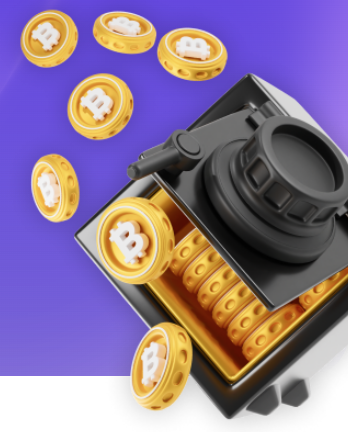
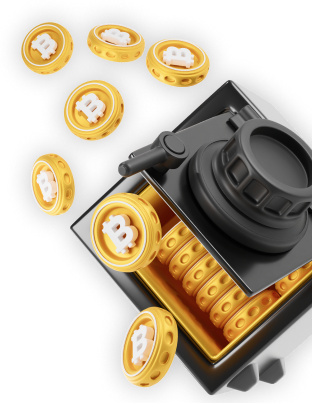
edit first page

diff --git a/front/src/page/welcome/index.css b/front/src/page/welcome/index.css
@@ -9,19 +9,15 @@
   width: 100%;
   height: 70%;
   text-align: center;
-  display: flex;
-  flex-direction: column;
-  align-items: center;
   border-radius: 24px;
   background: url("./background.svg") no-repeat;
+  position: relative;
 }
 
 .money__img {
   position: absolute;
-  top: 322px;
-  right: 1127px;
-  width: 300px;
-  height: 300px;
+  top: 232px;
+  left: 80px;
 }
 
 .welcome__title {
@@ -42,9 +38,9 @@
 }
 
 .buttons {
-  display: grid;
-  gap: 12px;
-  padding-bottom: 20px;
-  width: 100%;
+  display: flex;
+  flex-direction: column;
   justify-content: center;
+  align-items: center;
+  gap: 12px;
 }

diff --git a/front/src/page/welcome/index.tsx b/front/src/page/welcome/index.tsx
@@ -9,9 +9,9 @@ export const WelcomePage = () => {
     <div className="welcome__page">
       <div className="welcome">
         <StatusBar color="white" />
-        <img src={money} alt="Money" className="money__img"></img>
         <h1 className="welcome__title">Hello!</h1>
         <h4 className="welcome__subtitle">Welcome to bank app</h4>
+        <img src={money} alt="Money" className="money__img"></img>
       </div>
       <div className="welcome__space"></div>
       <div className="buttons">

diff --git a/front/src/component/button/index.css b/front/src/component/button/index.css
@@ -2,17 +2,11 @@
   text-align: center;
   font-family: Jost;
   font-size: 16px;
-  font-style: normal;
   font-weight: 500;
-  line-height: 100%; /* 16px */
-  display: flex;
+  line-height: 100%;
   padding: 20px 140px;
-  justify-content: center;
-  align-items: center;
-  gap: 10px;
-  border-radius: 12px;
-
   width: 353px;
+  border-radius: 12px;
   cursor: pointer;
   color: #fff;
   background: #775ce5;
